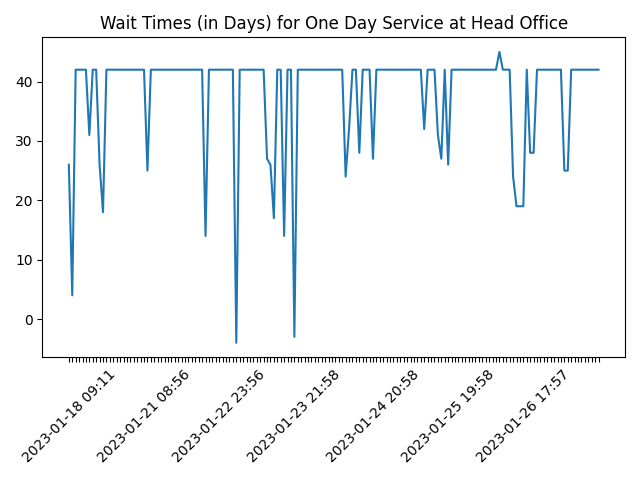
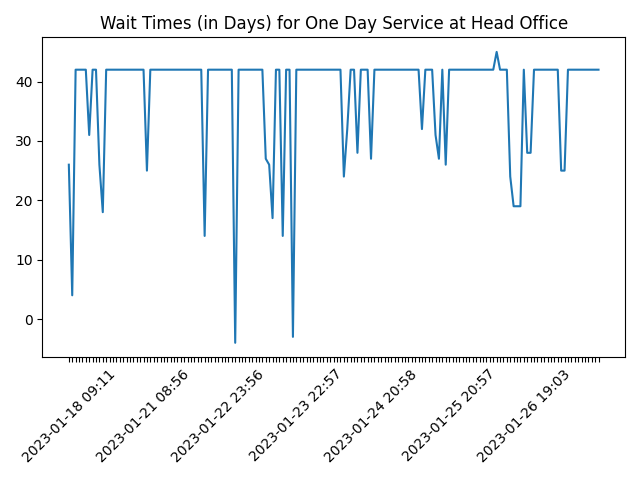
Updated data Fri Jan 27 11:27:04 UTC 2023

diff --git a/README.md b/README.md
@@ -1,6 +1,6 @@
 # Passport Application Reservation System - Availability Report
 
-*As of January 27, 2023 (03:58 PM)*
+*As of January 27, 2023 (04:57 PM)*
 
 ## One Day Service
 
@@ -37,6 +37,8 @@
 ## Normal Service
 
 ### HEAD OFFICE - BATTARAMULLA
+
+* 2023-03-28 (1 timeslot)
 
 * 2023-04-25 (13 timeslots)
 

diff --git a/summary.md b/summary.md
@@ -2,7 +2,7 @@
 
 Of the data from the Passport Application Reservation System of the Sri Lanka Department of Immigration and Emigration.
 
-*As of 2023-01-27 15:58:26*
+*As of 2023-01-27 16:57:02*
 
 ![Wait Time Chart](summary.wait_time_chart.png)
 
